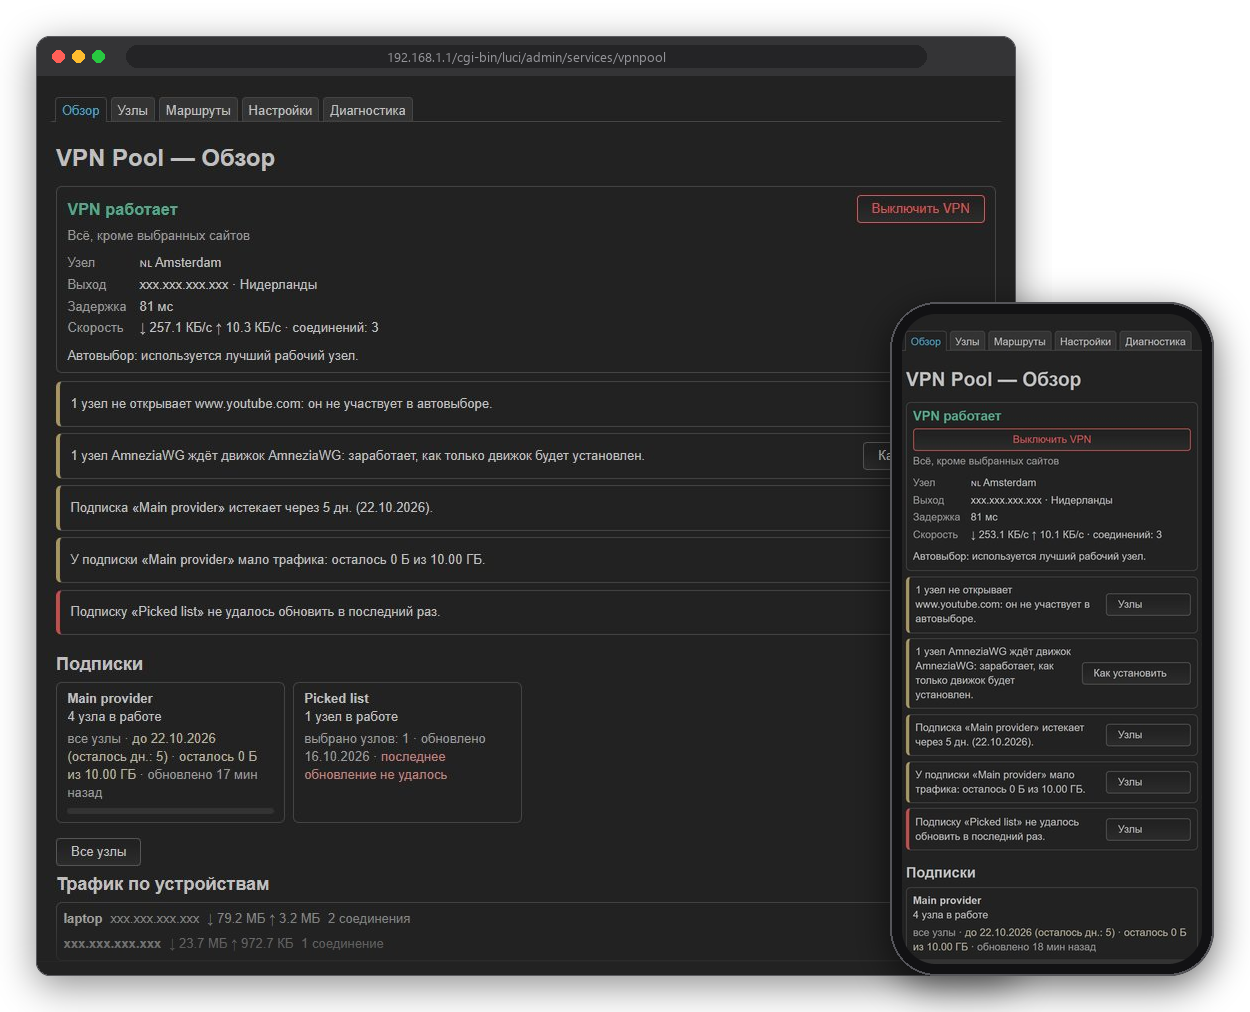
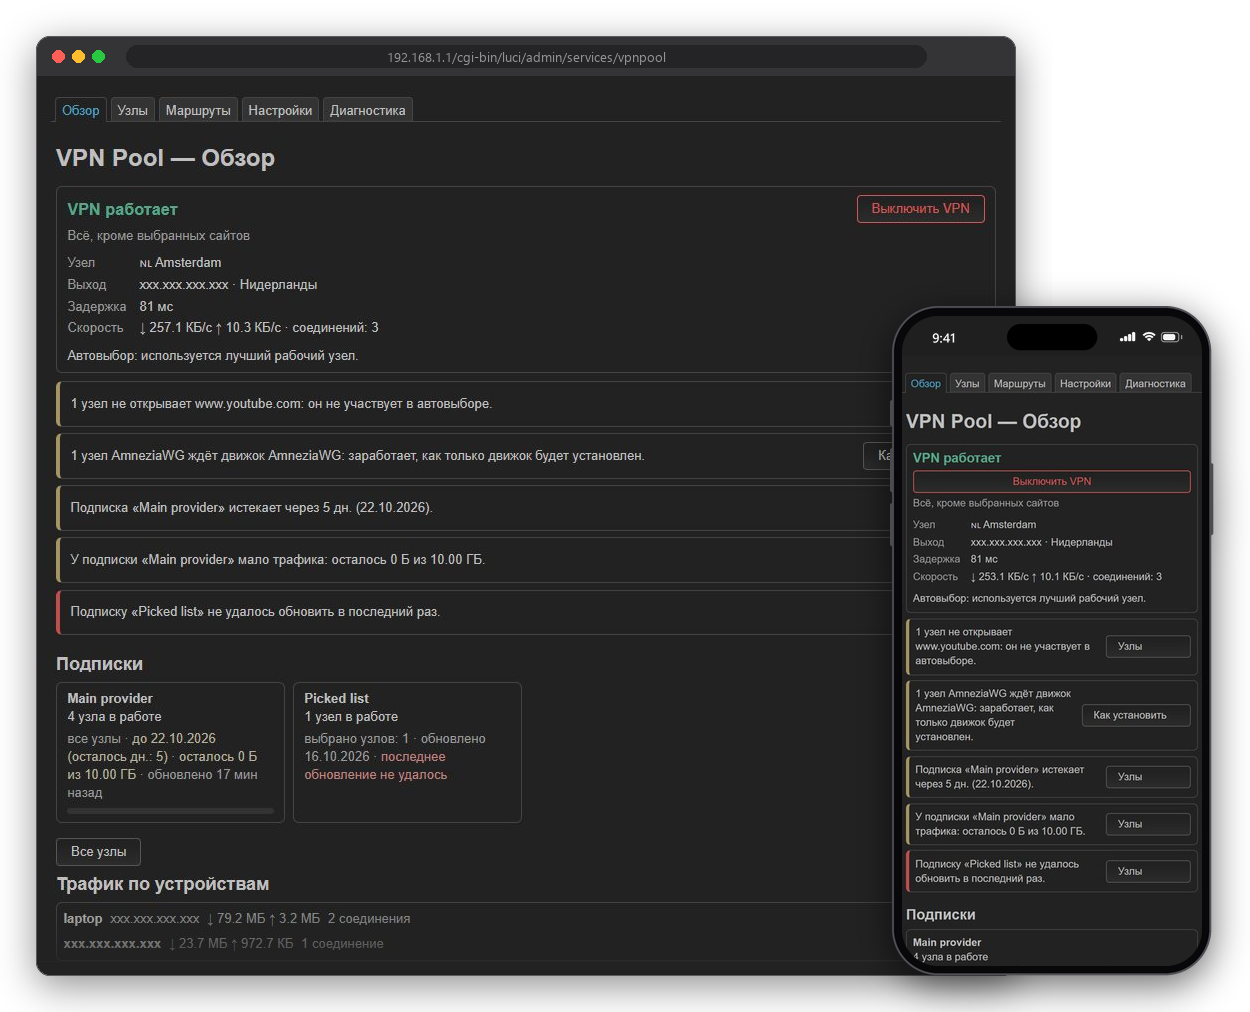
docs(readme): iPhone frame for the phone shots — Dynamic Island, status bar, side buttons

Changed region(s): [[0.6864, 0.2757, 0.9984, 0.9802], [0.8736, 0.8577, 0.936, 0.8883], [0.6864, 0.337, 0.7176, 0.3676]]

diff --git a/tools/readme-art.py b/tools/readme-art.py
@@ -94,21 +94,70 @@ def browser(shot, height=None, url="192.168.1.1/cgi-bin/luci/admin/services/vpnp
 
 
 def phone(shot, scale=1.0):
+    """An iPhone: titanium rim, side buttons, status bar and the Dynamic Island."""
     img = Image.open(os.path.join(SRC, shot)).convert("RGB")
-    if scale != 1.0:
-        img = img.resize((round(img.width * scale), round(img.height * scale)), Image.LANCZOS)
-    bez, r_out = 12, 46
-    w, h = img.width + bez * 2, img.height + bez * 2
-    body = Image.new("RGBA", (w, h), (0, 0, 0, 0))
-    frame = Image.new("RGBA", (w, h), (18, 18, 20, 255))
-    frame.putalpha(rounded_mask((w, h), r_out))
-    body.alpha_composite(frame)
-    screen = img.convert("RGBA")
-    screen.putalpha(rounded_mask(img.size, r_out - bez))
-    body.alpha_composite(screen, (bez, bez))
-    edge = Image.new("RGBA", (w, h), (0, 0, 0, 0))
-    ImageDraw.Draw(edge).rounded_rectangle((0, 0, w - 1, h - 1), r_out, outline=(85, 85, 90, 255), width=2)
-    body.alpha_composite(edge)
+    k = scale
+    if k != 1.0:
+        img = img.resize((round(img.width * k), round(img.height * k)), Image.LANCZOS)
+    u = lambda v: round(v * k)
+    sw, sh = img.size
+    sb = u(50)                     # status bar above the page, like on the phone
+    bez, rim, btn, r_out = u(13), max(2, u(3)), max(2, u(3)), u(58)
+    bw, bh = sw + bez * 2, sh + bez * 2
+    W, H = bw + btn * 2, bh
+
+    # rim, black glass and the side buttons, drawn big for smooth edges
+    big = Image.new("RGBA", (W * SS, H * SS), (0, 0, 0, 0))
+    d = ImageDraw.Draw(big)
+    s = lambda *v: [round(x * SS) for x in v]
+    metal = (74, 74, 80, 255)
+    for x0, y0, y1 in ((0, 118, 150), (0, 178, 232), (0, 246, 300)):          # action, volume
+        d.rounded_rectangle(s(x0, u(y0), btn + rim * 2, u(y1)), u(2) * SS, fill=metal)
+    d.rounded_rectangle(s(W - btn - rim * 2, u(196), W - 1, u(286)), u(2) * SS, fill=metal)  # power
+    d.rounded_rectangle(s(btn, 0, btn + bw - 1, bh - 1), r_out * SS, fill=metal)
+    d.rounded_rectangle(s(btn + rim, rim, btn + bw - 1 - rim, bh - 1 - rim), (r_out - rim) * SS,
+                        fill=(8, 8, 10, 255))
+    body = big.resize((W, H), Image.LANCZOS)
+
+    # the screen: a status bar strip on top, the page below it
+    bg = img.getpixel((2, sh - 2))
+    screen = Image.new("RGB", (sw, sh), bg)
+    screen.paste(img.crop((0, 0, sw, sh - sb)), (0, sb))
+    screen = screen.convert("RGBA")
+    screen.putalpha(rounded_mask((sw, sh), r_out - bez))
+    body.alpha_composite(screen, (btn + bez, bez))
+
+    # status bar and the island
+    ov = Image.new("RGBA", (W * SS, H * SS), (0, 0, 0, 0))
+    d = ImageDraw.Draw(ov)
+    x0, y0 = btn + bez, bez
+    cy = y0 + u(26)
+    iw, ih = u(112), u(33)
+    d.rounded_rectangle(s(x0 + (sw - iw) / 2, cy - ih / 2, x0 + (sw + iw) / 2, cy + ih / 2),
+                        ih / 2 * SS, fill=(0, 0, 0, 255))
+    white = (245, 245, 247, 255)
+    try:
+        tf = ImageFont.truetype("seguisb.ttf", u(16) * SS)
+    except OSError:
+        tf = font(u(16) * SS)
+    d.text(s(x0 + u(52), cy), "9:41", fill=white, font=tf, anchor="mm")
+    rx = x0 + sw - u(26)                                        # battery
+    d.rounded_rectangle(s(rx - u(25), cy - u(6), rx - u(2), cy + u(6)), u(3.5) * SS,
+                        outline=(245, 245, 247, 150), width=max(1, round(1.2 * k * SS)))
+    d.rounded_rectangle(s(rx - u(23), cy - u(4), rx - u(7), cy + u(4)), u(2) * SS, fill=white)
+    d.rounded_rectangle(s(rx, cy - u(2.5), rx + u(1.8), cy + u(2.5)), u(1) * SS, fill=(245, 245, 247, 150))
+    wx = rx - u(40)                                             # wi-fi
+    for r, a in ((u(11), 255), (u(7.5), 255), (u(4), 255)):
+        d.pieslice(s(wx - r, cy + u(5) - r, wx + r, cy + u(5) + r), 225, 315, fill=(245, 245, 247, a))
+        d.pieslice(s(wx - r + u(2.2), cy + u(5) - r + u(2.2), wx + r - u(2.2), cy + u(5) + r - u(2.2)),
+                   225, 315, fill=(0, 0, 0, 0))
+    d.pieslice(s(wx - u(3), cy + u(2), wx + u(3), cy + u(8)), 225, 315, fill=white)
+    sx = wx - u(36)                                             # signal
+    for n in range(4):
+        hgt = u(4 + n * 2.6)
+        d.rounded_rectangle(s(sx + n * u(5), cy + u(5) - hgt, sx + n * u(5) + u(3.2), cy + u(5)), u(1) * SS,
+                            fill=white)
+    body.alpha_composite(ov.resize((W, H), Image.LANCZOS))
     return body
 
 
